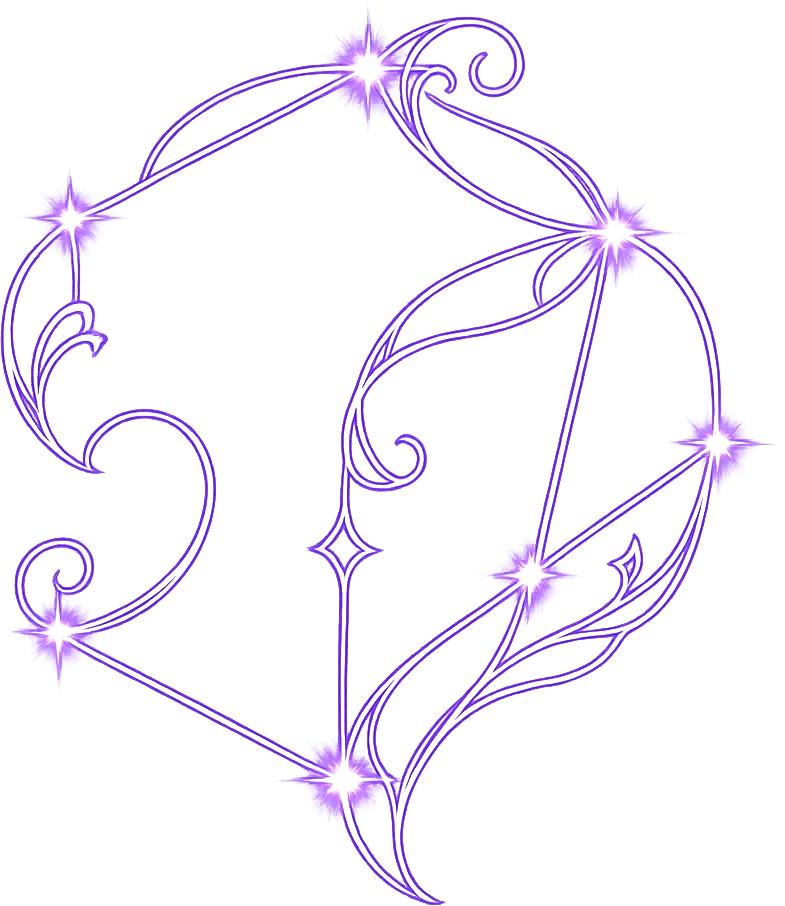
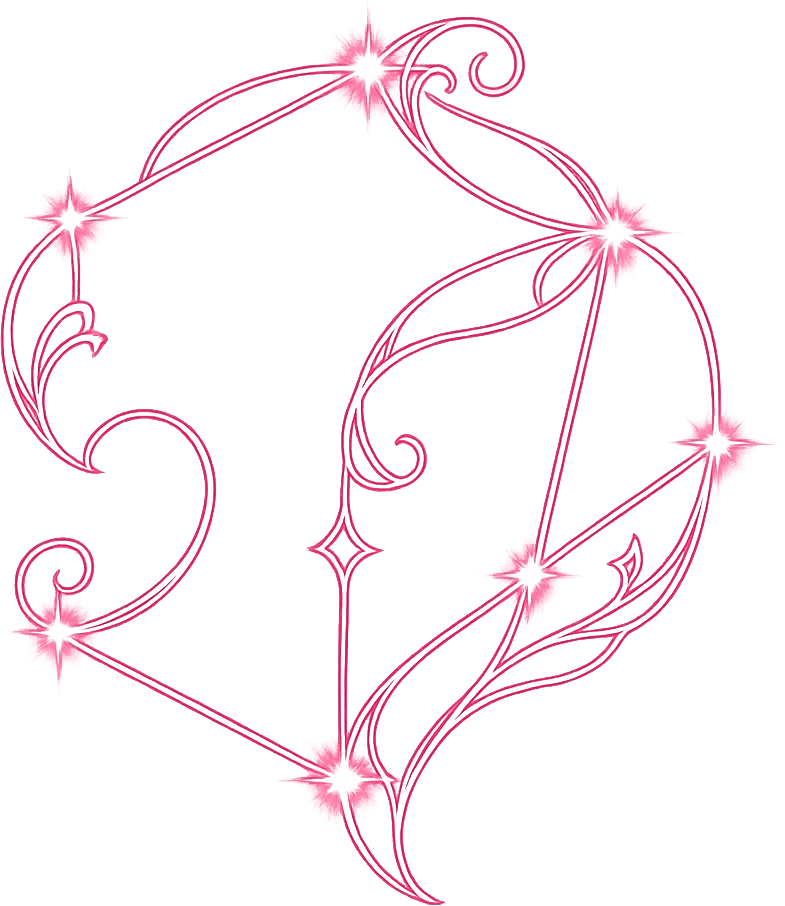
feat(orbita): re-tint constellation PNG to magenta, fill the canvas
Two adjustments to the ornamental PNG so it sits inside STELAR's
own visual language instead of feeling like an imported foreign
asset:

1. Re-tint to magenta. The source was lavender/purple (hue ≈ 254°);
   every chromatic pixel had its hue shifted to STELAR's magenta
   (340°, the same #E91E63 the rest of the app uses) while lightness
   and saturation were preserved. The bright cream-white star
   centres pass through untouched (saturation gate at 0.08 skips the
   near-greys), so the luminous pops in the art stay luminous.
2. Fill the canvas. `preserveAspectRatio` changed from `xMidYMid
   meet` to `xMidYMid slice`. The art now fills the full diagram
   width AND height (372 × 382), clipping the topmost/bottommost
   decorative tails. The empty 20-px side margins meet was leaving
   are gone — the dimension stars at the canvas corners (CUERPO,
   SUEÑO, ENERGÍA, ALIMENTO) now sit inside the art's bounds rather
   than floating beside it.
3. Opacity bumped 0.78 → 0.82 to match the warmer magenta.

The re-tint script lives inline in the commit context; if we ever
swap the source art we re-run it.

diff --git a/features/orbita/components/OrbitalSystem.tsx b/features/orbita/components/OrbitalSystem.tsx
@@ -241,9 +241,10 @@ export function OrbitalSystem({
           <Cosmos t={t} drift={drift} />
 
           {/* The ornamental constellation drawing — scrollwork and
-              decorative curves around the dimension stars. Fits the
-              viewBox with `meet` so aspect is preserved (the art is a
-              bit taller than the canvas; the SVG centres it). The
+              decorative curves around the dimension stars. `slice`
+              fills the whole viewBox by width AND height, clipping
+              the tip/tail flourishes that fall outside (preferable
+              to the empty side margins `meet` was leaving). The
               opacity holds the line art back so it sits *behind* the
               live luminous stars, not over them. */}
           <SvgImage
@@ -252,8 +253,8 @@ export function OrbitalSystem({
             width={W}
             height={VB_H}
             href={diaOrnamentPng}
-            preserveAspectRatio="xMidYMid meet"
-            opacity={0.78}
+            preserveAspectRatio="xMidYMid slice"
+            opacity={0.82}
           />
 
           {/* The central star — the "you" the dimensions orbit. */}